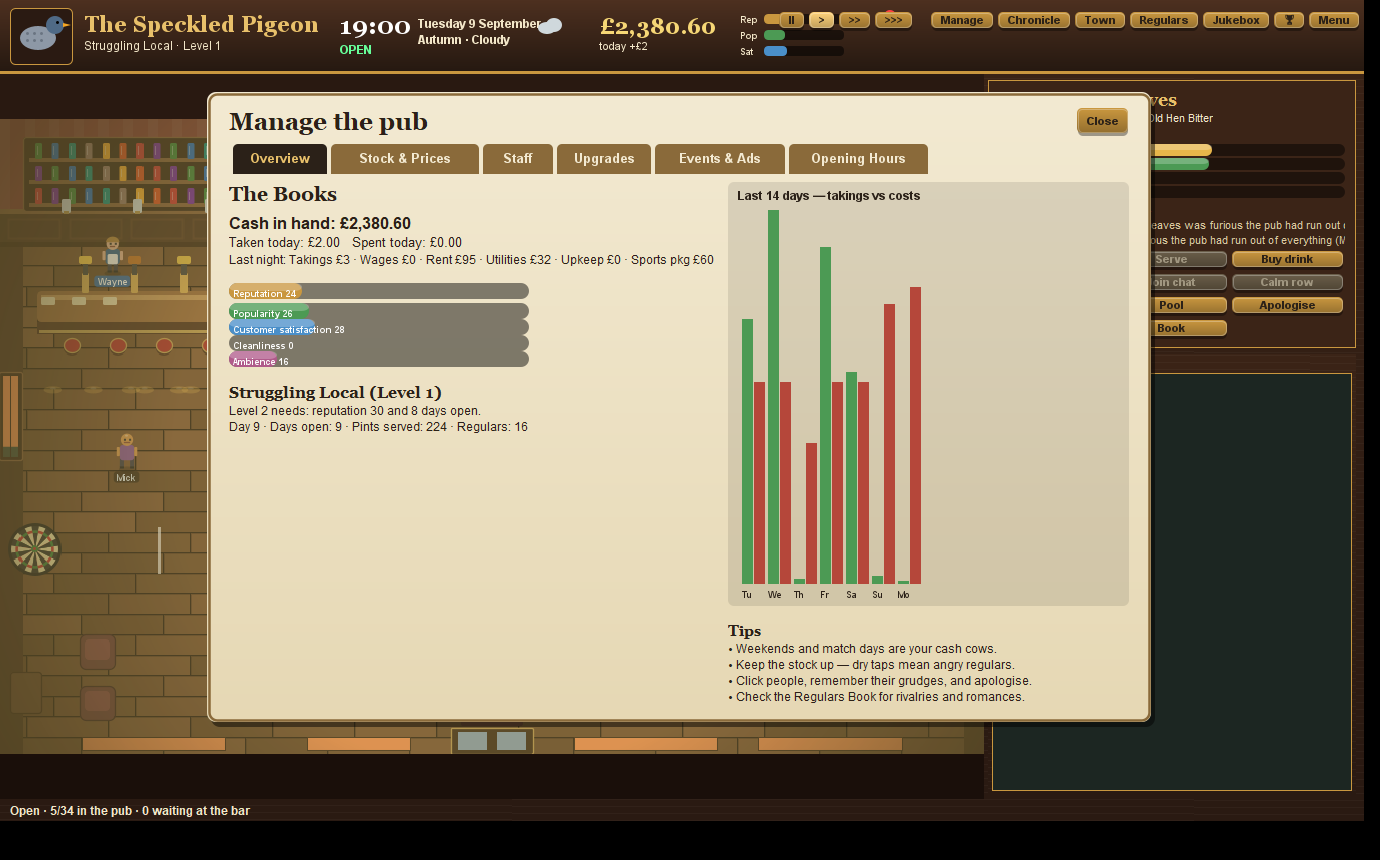
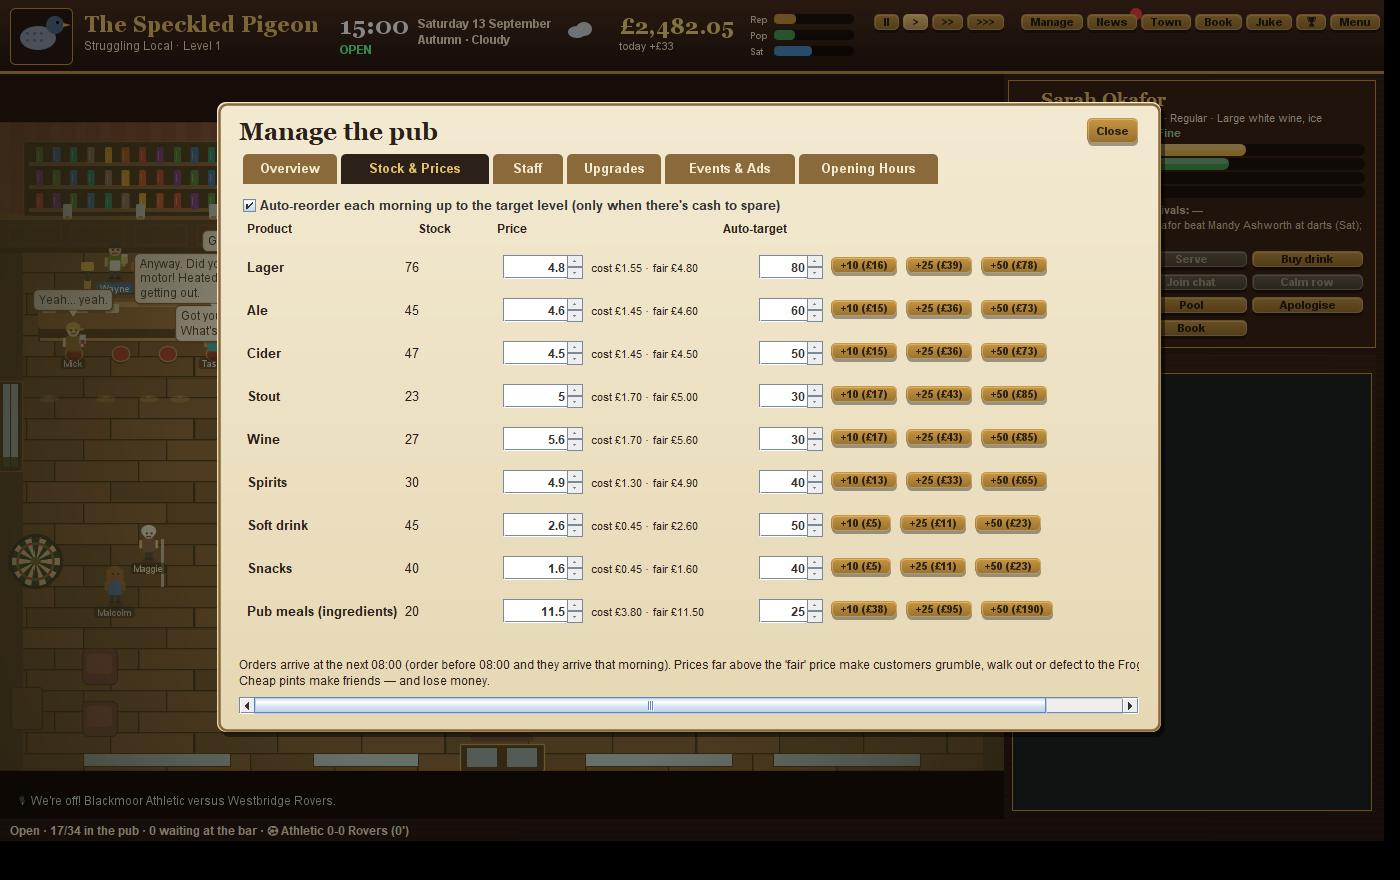
Auto-restock, delivery timing, low-stock alerts, refreshed screenshots

diff --git a/src/pub/Mgmt.java b/src/pub/Mgmt.java
@@ -124,6 +124,8 @@ public final class Mgmt {
             else { s.x = 480; s.y = 590; }
             if (s.tags.equals("Always late") && s.present && Util.chance(.4)) { s.present = false; log(s.name + " is running late. Very late.", "staff"); }
         }
+        StringBuilder low = new StringBuilder(); for (int i = 0; i < 7; i++) if (S.stock[i] < 12) low.append(Data.DNAME[i]).append(" (").append(S.stock[i]).append(") ");
+        if (low.length() > 0) L.alert("Running low: " + low + "- order stock in Manage (M)!");
         if (staffByRole("bartender") == null && staffByRole("manager") == null) L.alert("Nobody on the bar today — you'll have to serve!");
         String sp = Events.specialDay(); if (!sp.isEmpty()) { log("Tonight is " + sp + "! Expect a crowd.", "event"); news(sp.toUpperCase() + " IN WESTBRIDGE", "Pubs across town expect a busy night. The Speckled Pigeon is ready, ish."); }
         if (S.quizOn && dow() == 2) log("Quiz night tonight at 20:00.", "event");
@@ -200,6 +202,20 @@ public final class Mgmt {
         S.tvFixAt = S.tvBroken ? S.day : -1;
         if (S.tvBroken && Util.chance(.5)) S.tvBroken = false;
         S.powerCut = false; S.pigeonHere = false; Ai.games.clear();
+        autoRestock();
+    }
+
+    static void autoRestock() {
+        if (!S.autoStock) return;
+        double buffer = 250; int placed = 0;
+        for (int i = 0; i < S.autoTarget.length; i++) {
+            int t = S.autoTarget[i]; if (t <= 0) continue;
+            int pending = 0; for (Delivery d : S.deliveries) if (d.item == i) pending += d.qty;
+            int need = t - S.stock[i] - pending; if (need < 10) continue;
+            need = Math.min(need, stockCap() - S.stock[i] - pending);
+            if (need >= 10 && S.money - unitCost(i) * need > buffer && order(i, need)) placed++;
+        }
+        if (placed > 0) log("Auto-restock: ordered " + placed + " product" + (placed > 1 ? "s" : "") + " for delivery at 08:00.", "sys");
     }
 
     // ================= stock =================
@@ -211,7 +227,7 @@ public final class Mgmt {
         if (S.stock[item] + pending + qty > stockCap()) { toast("That's more than the cellar can hold."); return false; }
         if (S.money < cost) { toast("Not enough money."); return false; }
         spend(cost);
-        Delivery d = new Delivery(); d.item = item; d.qty = qty; d.arrives = S.day + (S.min < 17 * 60 ? 1 : 2) + (S.deliveryLate ? 1 : 0); S.deliveries.add(d);
+        Delivery d = new Delivery(); d.item = item; d.qty = qty; d.arrives = ((S.min >= 300 && S.min < 480) ? S.day : S.day + 1) + (S.deliveryLate && S.min < 480 ? 1 : 0); S.deliveries.add(d);
         sfx("coin"); return true;
     }
     static void deliveries() {

diff --git a/src/pub/Screens.java b/src/pub/Screens.java
@@ -85,7 +85,8 @@ public final class Screens {
 
     static JComponent stock(Runnable rf) {
         JPanel list = vbox();
-        JPanel head = hrow(ink("Product", 12, true), Box.createHorizontalStrut(110), ink("Stock", 12, true), Box.createHorizontalStrut(30), ink("Price", 12, true)); list.add(head);
+        JCheckBox auto = new JCheckBox("Auto-reorder each morning up to the target level (only when there's cash to spare)", S.autoStock); auto.setOpaque(false); auto.setFont(sans(13, true)); auto.addActionListener(e -> S.autoStock = auto.isSelected()); list.add(auto);
+        JPanel head = hrow(ink("Product", 12, true), Box.createHorizontalStrut(110), ink("Stock", 12, true), Box.createHorizontalStrut(30), ink("Price", 12, true), Box.createHorizontalStrut(180), ink("Auto-target", 12, true)); list.add(head);
         for (int i = 0; i < Data.DRINKS.length; i++) {
             final int k = i; String nm = Data.DNAME[i] + (i == 8 ? " (ingredients)" : "");
             JLabel n = ink(nm, 13, true); n.setPreferredSize(new Dimension(150, 24));
@@ -95,10 +96,11 @@ public final class Screens {
             sp.addChangeListener(e -> { S.price[k] = ((Number) sp.getValue()).doubleValue(); });
             JLabel mg = ink(String.format("cost %s · fair %s", Util.money(Mgmt.unitCost(i)), Util.money(Data.DPRICE[i])), 11, false); mg.setPreferredSize(new Dimension(160, 24));
             JPanel row = hrow(n, st, sp, mg);
+            JSpinner tg = new JSpinner(new SpinnerNumberModel(S.autoTarget[i], 0, 400, 10)); tg.setPreferredSize(new Dimension(64, 24)); tg.addChangeListener(e -> S.autoTarget[k] = (Integer) tg.getValue()); row.add(tg);
             for (int q : new int[]{10, 25, 50}) row.add(sbtn("+" + q + " (" + Util.money0(Mgmt.unitCost(i) * q) + ")", () -> { if (Mgmt.order(k, q)) rf.run(); }));
             list.add(row);
         }
-        list.add(new JLabel(" ")); list.add(ink("<html><body style='width:760px'>Orders placed before 17:00 arrive at 08:00 tomorrow (a day later if you order late). Prices far above the 'fair' price make customers grumble, walk out or defect to the Frog & Trumpet. Cheap pints make friends — and lose money.</body></html>", 12, false));
+        list.add(new JLabel(" ")); list.add(ink("<html><body style='width:620px'>Orders arrive at the next 08:00 (order before 08:00 and they arrive that morning). Prices far above the 'fair' price make customers grumble, walk out or defect to the Frog & Trumpet. Cheap pints make friends — and lose money.</body></html>", 12, false));
         return scroll(list);
     }
 

diff --git a/test/SimTest.java b/test/SimTest.java
@@ -21,9 +21,9 @@ public class SimTest {
             Player.x = 200; Player.y = 150; Sim.advance(1.0, 1.0);
             if (i % 5 == 0) Sim.advance(0.5, 0.0001);
             // keep stock topped up
-            if (Sim.S.min == 9 * 60) for (int k = 0; k < 7; k++) if (Sim.S.stock[k] < 50) Mgmt.order(k, 40);
-            if (Sim.S.min == 9 * 60 && Sim.S.stock[8] < 15) Mgmt.order(8, 20);
-            if (Sim.S.min == 9 * 60 && Sim.S.stock[7] < 15) Mgmt.order(7, 20);
+            if (System.getenv("NOORDER") == null && Sim.S.min == 9 * 60) for (int k = 0; k < 7; k++) if (Sim.S.stock[k] < 50) Mgmt.order(k, 40);
+            if (System.getenv("NOORDER") == null && Sim.S.min == 9 * 60 && Sim.S.stock[8] < 15) Mgmt.order(8, 20);
+            if (System.getenv("NOORDER") == null && Sim.S.min == 9 * 60 && Sim.S.stock[7] < 15) Mgmt.order(7, 20);
         }
         System.out.println("ms=" + (System.currentTimeMillis() - t0) + " cats=" + cats);
         System.out.println("stats=" + Sim.S.stats);

diff --git a/src/pub/Model.java b/src/pub/Model.java
@@ -90,6 +90,8 @@ public final class Model {
         public int level = 1;
         public double[] price = Data.DPRICE.clone();
         public int[] stock = {60, 50, 40, 20, 24, 30, 40, 40, 20};
+        public int[] autoTarget = {80, 60, 50, 30, 30, 40, 50, 40, 25};
+        public boolean autoStock = true;
         public List<Delivery> deliveries = new ArrayList<>();
         public int openH = 11, closeH = 23;
         public List<Npc> npcs = new ArrayList<>(); public List<Staff> staff = new ArrayList<>(), applicants = new ArrayList<>();
